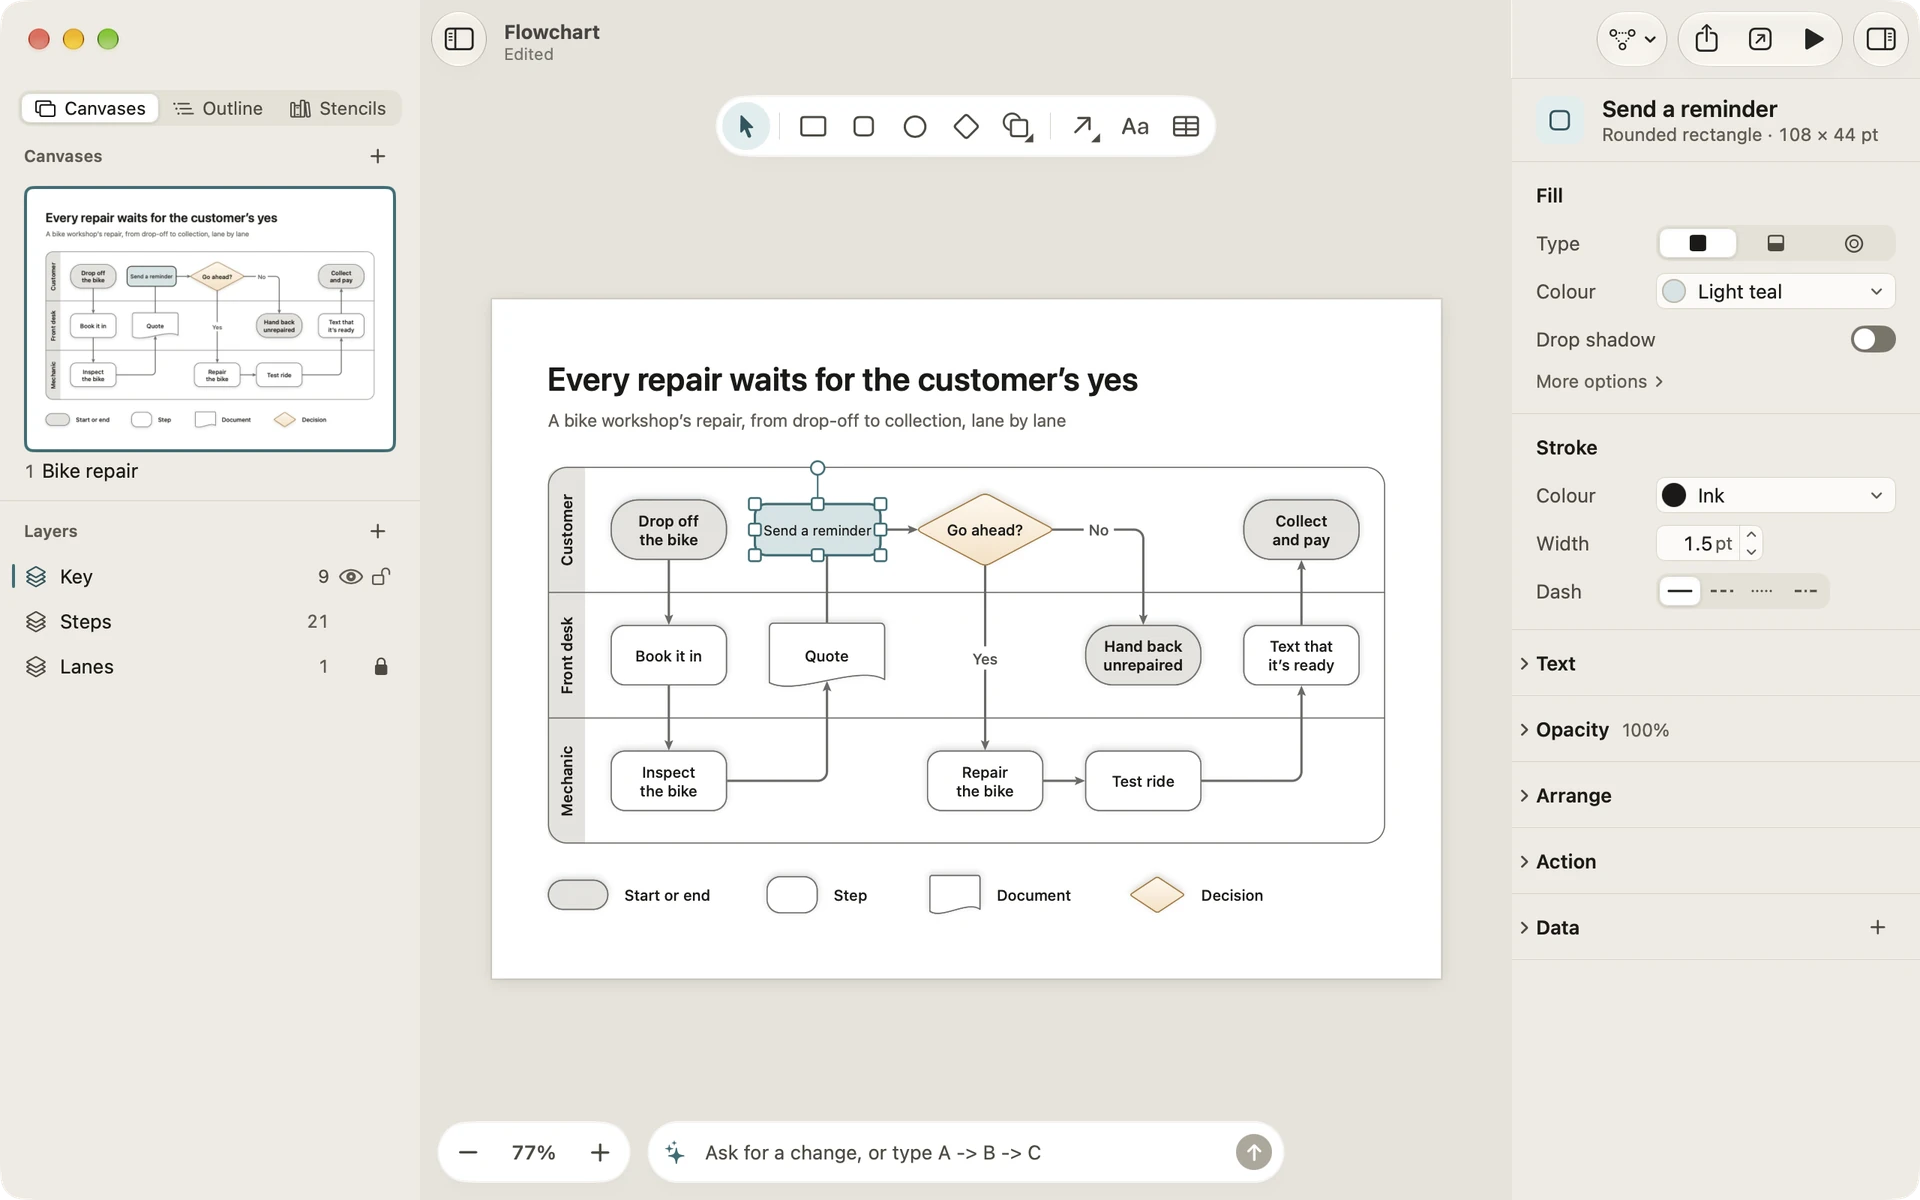
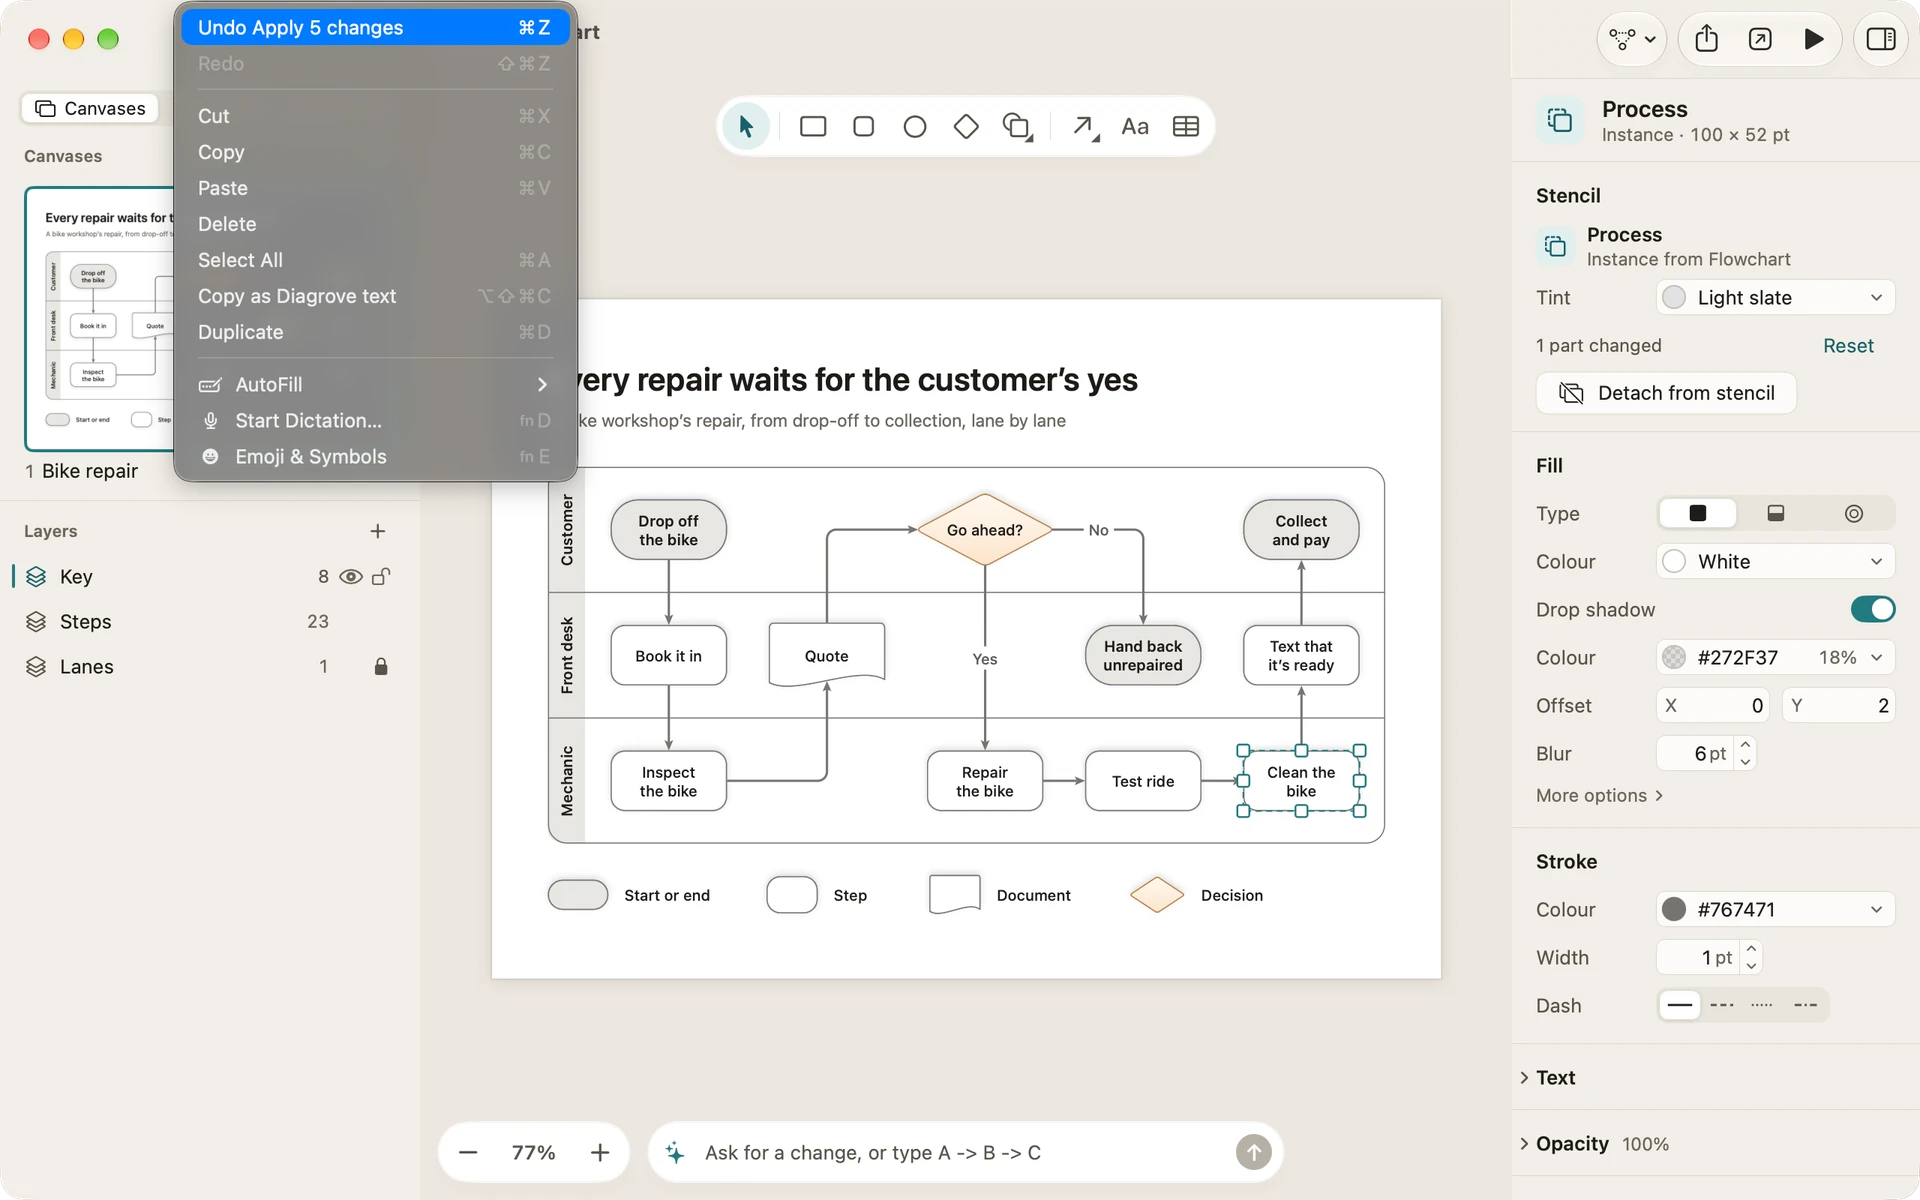
diagrove: command-line-tool's live-apply-mac taken again: Clean the bike joined into the flow by apply --live, the Edit menu on Undo Apply 5 changes

diff --git a/content/diagrove/guide/command-line-tool.md b/content/diagrove/guide/command-line-tool.md
@@ -102,7 +102,7 @@ Changes made with `apply --live` land in the window as one undo step, so **Edit 
 
 The first time, macOS asks whether your terminal app may control Diagrove. If you said no, turn it on in **System Settings › Privacy & Security › Automation**. Diagrove has to be running; the tool says so when it isn’t.
 
-![The Flowchart template in Diagrove just after diagrove apply --live added a shape: the new Send a reminder step selected on the canvas, with its Fill and Stroke in the inspector.](live-apply-mac.webp "A shape added from Terminal with diagrove apply --live, selected in the open window.")
+![The Flowchart template in Diagrove just after diagrove apply --live added a step: Clean the bike, joined between Test ride and Text that it’s ready and selected on the canvas, with the Edit menu open on Undo Apply 5 changes.](live-apply-mac.webp "A step added with diagrove apply --live is one undo step in the open window.")
 
 ## Connect an AI assistant
 
